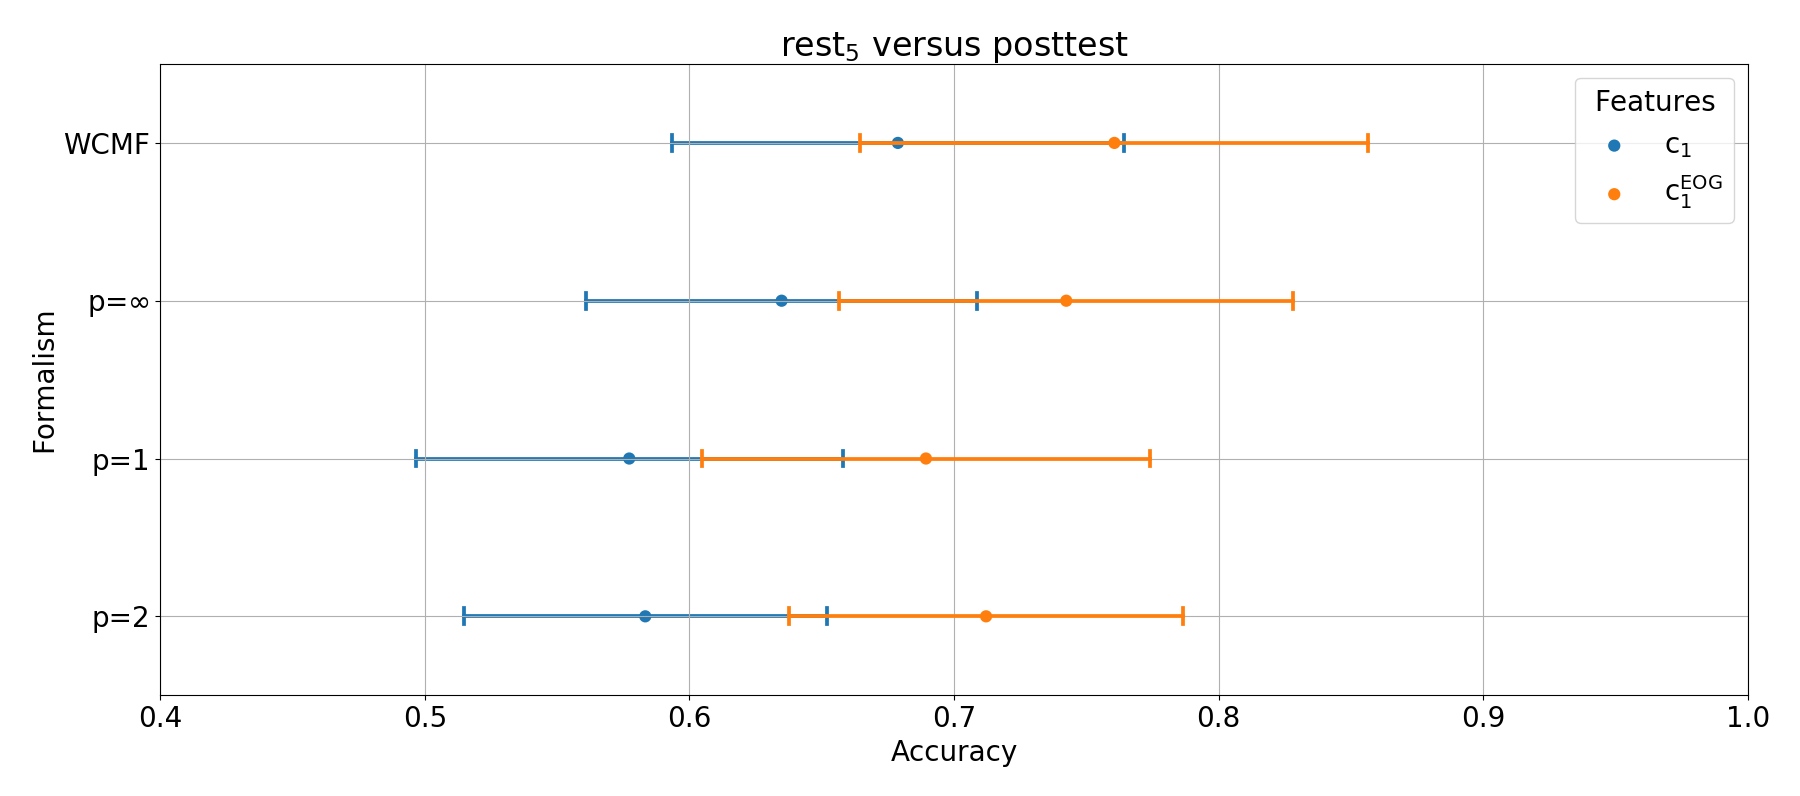
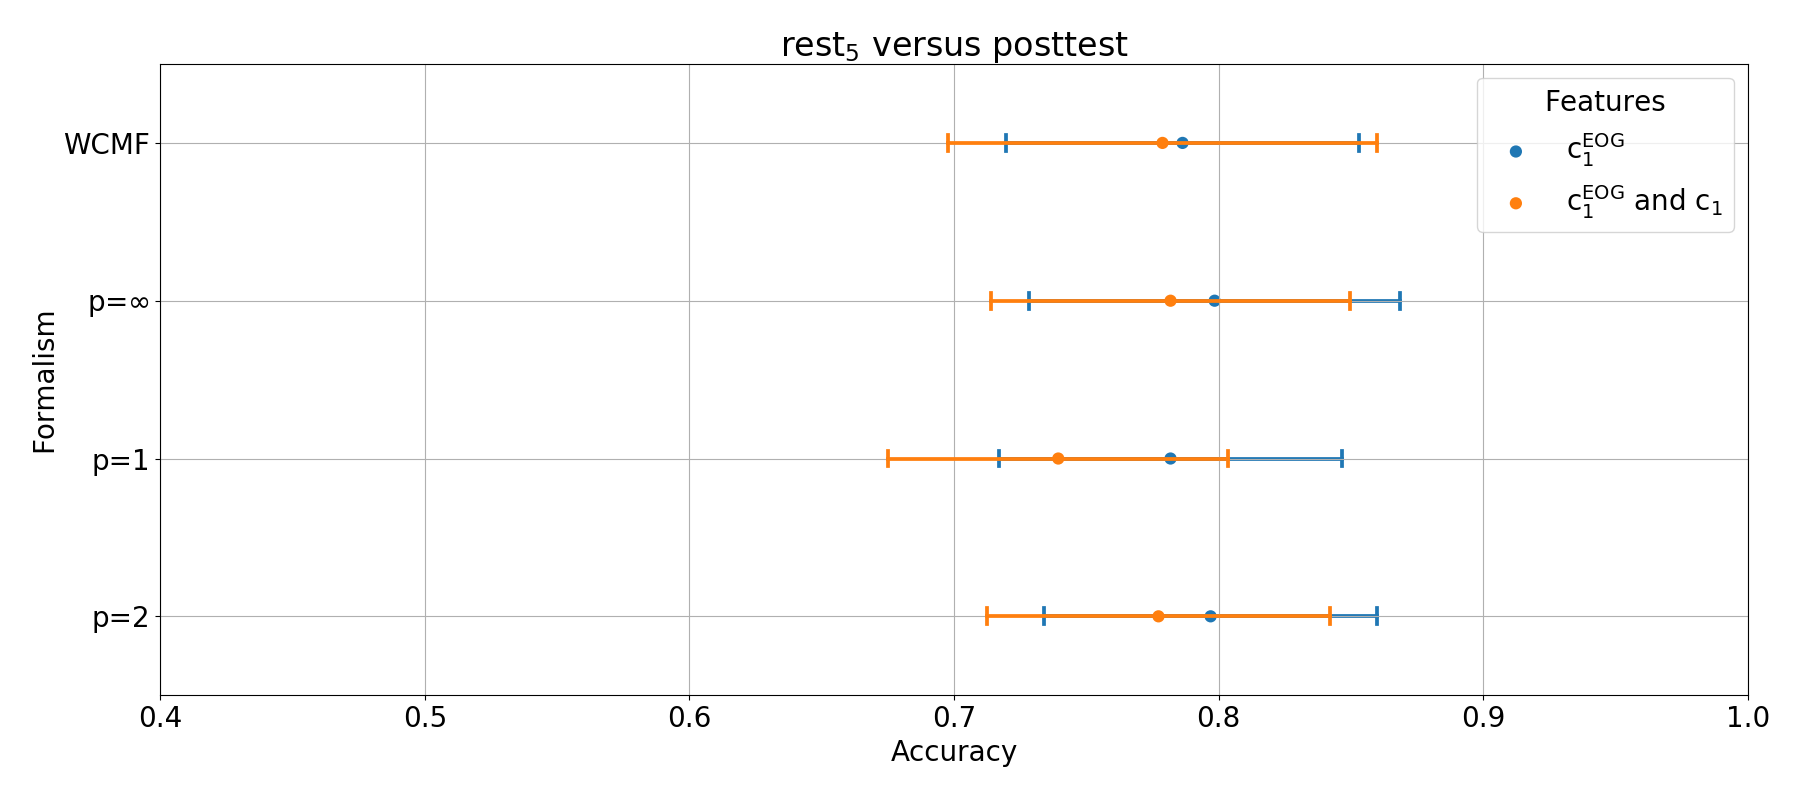
adding more results

diff --git a/classification/source_space/classif_summary.py b/classification/source_space/classif_summary.py
@@ -60,7 +60,7 @@ def plot_single_learning_curve(train_sizes, test_scores,
 # Summary using MF features
 #======================================================================
 
-PLOT_LEARNING_CURVES = False
+PLOT_LEARNING_CURVES = True
 PLOT_POINT           = True
 
 # Chooses the 'representative' point in the learning curve, e.g.,
@@ -74,19 +74,19 @@ POINT_INDEX          = -3
 #----------------------------------------------------------------------
 fignum = 'classification  with mf features'
 
-classifiers = ['linear_svm'] # ['linear_svm_scaled', 'linear_svm', 'random_forest']
-features_names = ['EOGmaxminC2j', 'maxminC2j_EOGmaxminC2j']
+classifiers = ['linear_svm_scaled', 'linear_svm', 'random_forest']
+features_names = ['c1', 'c2', 'c1_c2', 'avgC2j', 'maxminC2j']
 
 #~~
-features_names_readable = ['maxmin($C_2(j))^{\mathrm{EOG}}$', 'maxmin($C_2(j)$) and maxmin($C_2(j))^{\mathrm{EOG}}$']
-classifiers_readable    = ['Linear SVM']
+features_names_readable = ['$c_1$', '$c_2$', '$c_1$ and $c_2$', 'avg($C_2(j)$)' ,'maxmin($C_2(j)$)']
+classifiers_readable    = ['Scaling + Linear SVM', 'Linear SVM', 'Random Forest']
 #~~
 
-mf_params_list = [0, 1, 2, 3]
+mf_params_list = [1]
 source_rec_params_list = [0]
 
 #~~
-formalism_readable = ['WCMF', 'p=$\infty$', 'p=1', 'p=2']
+formalism_readable = ['p=$\infty$', 'p=1', 'p=2']
 source_rec_readable = ['$\lambda = 1/9$', '$\lambda = 1$']
 #~~
 
@@ -147,7 +147,7 @@ for conditions_0, conditions_1 in conditions_classif:
                     with h5py.File(filename, "r") as f:
                         # train_sizes is divided by len(conditions_0) so that
                         # train_sizes = number of subjects in training set
-                        train_sizes  = f['train_sizes'][:] / len(conditions_0)  
+                        train_sizes  = f['train_sizes'][:] #/ len(conditions_0)  
                         train_scores = f['train_scores'][:]
                         test_scores  = f['test_scores'][:]
 
@@ -200,7 +200,7 @@ HUE = df['Features'] # df['conditions'] + ', ' +df['features']+'_'+df['mf_rec']
 
 #--------------------------------------------------------------------------------
 plt.figure()
-ax = sns.pointplot(x='Accuracy', y='Formalism', data=df,
+ax = sns.pointplot(x='Accuracy', y='Classifier', data=df,
                    hue = HUE ,
                    capsize=.1,
                    linestyles='', ci="sd")

diff --git a/classification/sensor_space/summary.py b/classification/sensor_space/summary.py
@@ -60,7 +60,7 @@ def plot_single_learning_curve(train_sizes, test_scores,
 # Summary using MF features
 #======================================================================
 
-PLOT_LEARNING_CURVES = False
+PLOT_LEARNING_CURVES = True
 PLOT_POINT           = True
 
 # Chooses the 'representative' point in the learning curve, e.g.,
@@ -76,18 +76,19 @@ channel_type = 'mag'
 #----------------------------------------------------------------------
 fignum = 'classification  with mf features'
 
-classifiers = ['linear_svm'] # ['linear_svm_scaled', 'linear_svm', 'random_forest']
-features_names = ['EOGmaxminC2j', 'maxminC2j_EOGmaxminC2j']
+classifiers = ['linear_svm_scaled', 'linear_svm', 'random_forest']
+features_names = ['c1', 'avgC2j', 'maxminC2j', 'c1_maxminC2j']
 
 #~~
-features_names_readable = ['maxmin($C_2(j))^{\mathrm{EOG}}$', 'maxmin($C_2(j)$) and maxmin($C_2(j))^{\mathrm{EOG}}$']
-classifiers_readable    = ['Linear SVM']
+features_names_readable = ['$c_1$', 'avg($C_2(j)$)' ,'maxmin($C_2(j)$)', '$c_1$ and maxmin($C_2(j)$)']
+classifiers_readable    = ['Scaling + Linear SVM', 'Linear SVM', 'Random Forest']
 #~~
 
-mf_params_list = [0, 1, 2, 3]
+
+mf_params_list = [1]
 
 #~~
-formalism_readable = ['WCMF', 'p=$\infty$', 'p=1', 'p=2']
+formalism_readable = ['p=$\infty$', 'p=1', 'p=2']
 #~~
 
 # Possible conditions for classification
@@ -144,7 +145,7 @@ for conditions_0, conditions_1 in conditions_classif:
                 with h5py.File(filename, "r") as f:
                     # train_sizes is divided by len(conditions_0) so that
                     # train_sizes = number of subjects in training set
-                    train_sizes  = f['train_sizes'][:] / len(conditions_0)  
+                    train_sizes  = f['train_sizes'][:] #/ len(conditions_0)  
                     train_scores = f['train_scores'][:]
                     test_scores  = f['test_scores'][:]
 

diff --git a/classification/source_space/classification_mf.py b/classification/source_space/classification_mf.py
@@ -74,7 +74,7 @@ conditions_1 = ['posttest']
 # Classification parameters 
 #===============================================================================
 # Choose classifier
-classifier_name_list = ['linear_svm']
+classifier_name_list = ['random_forest_no_cv', 'linear_svm', 'linear_svm_scaled']
 
 # Define cross validation scheme
 n_splits   = 30
@@ -85,10 +85,10 @@ scoring    = ['accuracy']
 # Select classifier
 for classifier_name in classifier_name_list:
     # Select MF parameters and source reconstruction parameters
-    for mf_params_idx in [0, 1, 2, 3]:    # 0, 1, 2 or 3 
+    for mf_params_idx in [1]:    # 0, 1, 2 or 3 
         for source_rec_params_idx in [0]:  # 0 or 1
             # Cumulants used for classification
-            for log_cumulants in [[101], [1, 101]]:  # [0, 1], [0] or [1]
+            for log_cumulants in [[-1], [-3]]:  # [0, 1], [0] or [1]
                 print("~~~~~~~~~~~~~~~~~~~~~~~~~~~~~~~~~~")
                 print("Running: ", mf_params_idx, source_rec_params_idx, log_cumulants)
                 print("~~~~~~~~~~~~~~~~~~~~~~~~~~~~~~~~~~")

diff --git a/classification/sensor_space/run_classif.py b/classification/sensor_space/run_classif.py
@@ -78,7 +78,7 @@ raw = mne.io.read_raw_fif(raw_filename)
 # Classification parameters 
 #===============================================================================
 # Choose classifier
-classifier_name_list = ['linear_svm', 'linear_svm_scaled']
+classifier_name_list = ['random_forest_no_cv']
 
 # Define cross validation scheme
 n_splits   = 30
@@ -89,10 +89,10 @@ scoring    = ['accuracy']
 # Select classifier
 for classifier_name in classifier_name_list:
     # Select MF parameters and source reconstruction parameters
-    for mf_params_idx in [0, 1, 2, 3]:    # 0, 1, 2 or 3 
+    for mf_params_idx in [1]:    # 0, 1, 2 or 3 
         for channel_type in ['mag']:
             # Cumulants used for classification
-            for log_cumulants in [[100], [0, 100], [200], [-3, 200]]:  # [0, 1], [0] or [1]
+            for log_cumulants in [ [0, -3]]:  # [0, 1], [0] or [1]
                 print("~~~~~~~~~~~~~~~~~~~~~~~~~~~~~~~~~~")
                 print("Running: ", mf_params_idx, channel_type, log_cumulants)
                 print("~~~~~~~~~~~~~~~~~~~~~~~~~~~~~~~~~~")

diff --git a/analyze_mf_sensor/visualization.py b/analyze_mf_sensor/visualization.py
@@ -35,7 +35,7 @@ sensor_type = 'mag'
 
 
 # select analysis type: 0 for H, 1 for M
-see_cumulant = 1
+see_cumulant = 0
 
 # Select groups and subjects
 groups = ['AV', 'V' ,'AVr']
@@ -46,7 +46,7 @@ rest_condition = 'rest5'
 task_condition = 'posttest'
 
 # Select MF parameters and source reconstruction parameters
-mf_params_idx = 0
+mf_params_idx = 1
 
 # Load cumulants and log-cumulants
 all_log_cumulants_rest, all_cumulants_rest, subjects_list, params, _, _, _ = \
